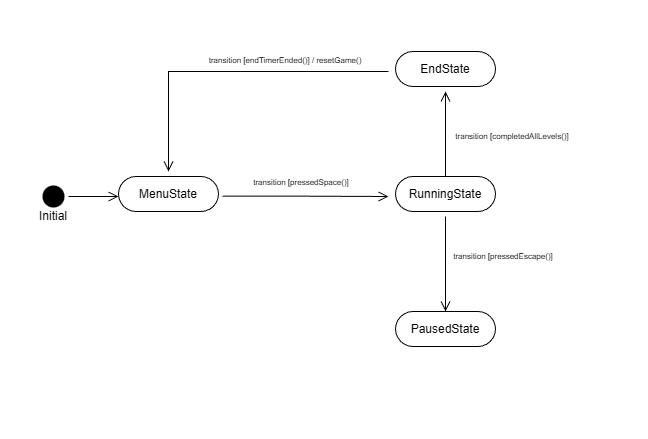
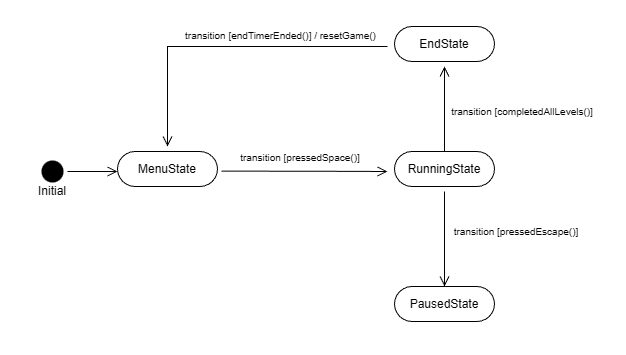
Giving some polishment in report

Changed region(s): [[0.0607, 0.062, 0.9409, 0.8986], [0.7588, 0.062, 0.7891, 0.093], [0.6374, 0.8986, 0.6677, 0.9296]]

diff --git a/README.md b/README.md
@@ -55,7 +55,7 @@ Este *design* tem como ideia de promover ao máximo o *Single Responsibility Pri
 
 Para implementar esta solução, criamos uma classe abstrata *Node* que contêm, uma posição, um valor *offset* para a sua posição e um método *update* que atualiza a sua posição. E a partir dessa classe será criada subclasses que serão os componentes.
 Os componentes criados para o projeto foram:
-- *SolidSprite*: um componente para desenhar um *sprite* usando o *TextImage* do *lanterna*, o que considera pixeis invisiveis como pixeis pretos;
+- *SolidSprite*: um componente para desenhar um *sprite* usando o *TextImage* do *lanterna*, o que considera pixeis invisíveis como pixeis pretos;
 - *TransparentSprite*: um componente para desenhar um *sprite* considerando apenas pixeis não transparentes;
 - *AnimatedSprite*: um componente capaz de desenhar uma animação;
 - *BoxCollider*: um componente que representa um *collider*, responsável para verificar colisões entre objetos;
@@ -275,6 +275,8 @@ Com base nessa base, implementamos os seguintes estados:
 - PausedState: um estado em que o jogo deve ficar pausado;
 - EndState: um estado que representa o fim do jogo.
 
+**Nota: transition() no diagrama de estados representa o método que é chamado para mudar de estado.**
+
 <p align="center" justify="center">
   <img src="misc/gameStateUML.png"/>
 </p>
@@ -330,6 +332,8 @@ Com base nisso, criamos os seguintes estados:
 - WallJumpState: estado qunado o *Hero* faz um *wall jump*.
 
 Assim, o estado atual é guardado no *HeroModel* para ser utilizado pelo *HeroController* e pelo *HeroView*.
+
+**Nota: transition() no diagrama de estados representa o método chamado para mudar de estado. Além disso, qualquer estado pode mudar para o estado *DashingState*, por isso, decidimos representar todos os estados exceto o *DashingState* como *SuperState* para representar a transição para o *dash*.**
 
 <p align="center" justify="center">
   <img src="misc/heroStateUML.png"/>
